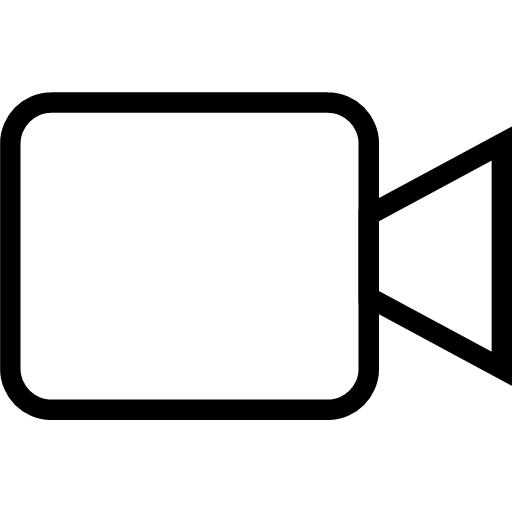
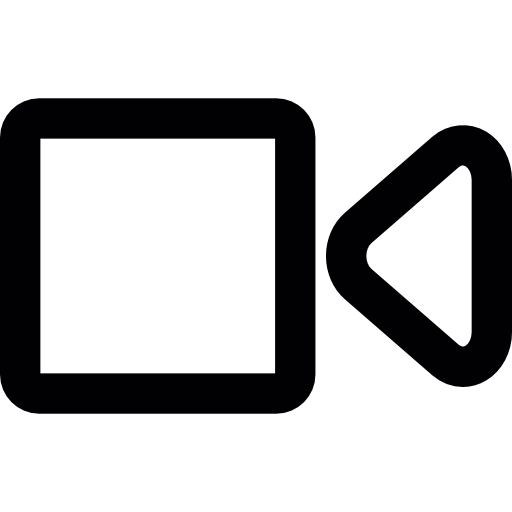
touched up the meeting page

Changed region(s): [[0.0, 0.1562, 1.0, 0.8438]]

diff --git a/pages/meeting.html b/pages/meeting.html
@@ -47,7 +47,7 @@
     <div id="videoButtons" class="container-fluid">
         <div class="d-flex justify-content-center" style="margin-top: 0px">
             <div class="d-flex flex-column justify-content-center meeting-icons">
-                <img id="camera" src="../icons/video.svg" alt="videos" width="100%" height="auto" data-toggle="tooltip" title="Toggle Camera">
+                <img id="camera" src="../icons/video.png" alt="videos" width="120%" height="120%" data-toggle="tooltip" title="Toggle Camera">
             </div>
             <div class="d-flex flex-column justify-content-center meeting-icons">
                 <img id="mute" src="../icons/microphone.svg" alt="microphone" width="auto" height="100%" data-toggle="tooltip" title="Mute">
@@ -56,13 +56,13 @@
                 <img id="chat" src="../icons/comment.svg" alt="chat" width="100%" height="auto" data-toggle="tooltip" title="Toggle Chat">
             </div>
             <div class="d-flex flex-column justify-content-center meeting-icons">
-                <img id="shareScreen" src="../icons/screen.svg" alt="shareScreen" width="100%" height="auto" data-toggle="tooltip" title="Share Screen">
+                <img id="shareScreen" src="../icons/screen.webp" alt="shareScreen" width="100%" height="auto" data-toggle="tooltip" title="Share Screen">
             </div>
             <div class="d-flex flex-column justify-content-center meeting-icons">
                 <img id="transcription" src="../icons/file-alt.svg" alt="transcription" width="auto" height="90%" data-toggle="tooltip" title="Enable Transcription">
             </div>
             <div class="d-flex flex-column justify-content-center meeting-icons">
-                <img id="endCall" src="../icons/call.svg" alt="endCall" width="100%" height="auto" data-toggle="tooltip" title="End Call">
+                <img id="endCall" src="../icons/phone-slash.svg" alt="endCall" width="100%" height="auto" data-toggle="tooltip" title="End Call">
             </div>
         </div>
     </div>
